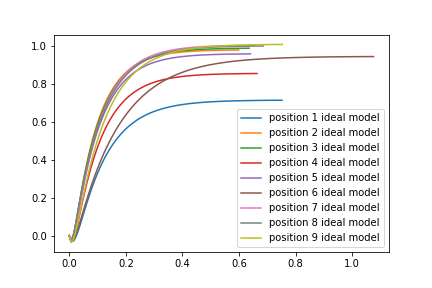
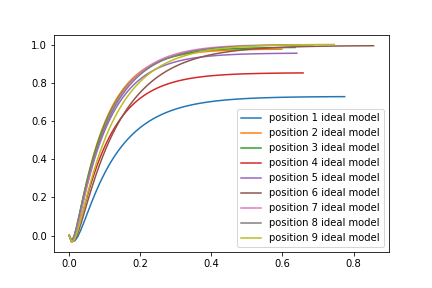
removing negative trend

diff --git a/identification.py b/identification.py
@@ -31,6 +31,23 @@ def read_data(control_output,task_vel):
 
 #the function reads the step response data from the files and outputs a dataframe
 def batch_read_data(control_output,task_vel):
+
+    #the function removes the negative trend
+    def trend_remove(df_i_s):
+        df_i_s['trend'] = np.sign(df_i_s['x_ist'].rolling(window=5).mean().diff().fillna(0)).map({0:'FLAT',1:'UP',-1:'DOWN'})
+        rev = list(df_i_s.trend.values)[::-1]
+        counter = 0
+
+        for i in range(0,len(rev)):
+            if rev[i] == 'DOWN':
+                counter = counter+1
+            else:
+                break
+        leng = len(df_i_s)
+        if counter > 5: #if the trend is noticable, then the dataframe is updated.
+            df_i_s = df_i_s.head(leng-counter)
+        return df_i_s
+
     try:
         df_soll     = pd.read_csv(control_output, header = 0)
         df_soll.columns = df_soll.columns.str.strip() #removing whitespace from header name
@@ -43,13 +60,14 @@ def batch_read_data(control_output,task_vel):
         #df_ist      = df_ist[~df_ist.index.duplicated(keep = 'first')]
         df_ist_soll = pd.concat([df_soll.x_soll, df_ist.x_ist], axis = 1).fillna(method = 'pad')
         df_ist_soll = df_ist_soll.fillna(0)
+        df_ist_soll = trend_remove(df_ist_soll)
+        df_ist_soll.drop('trend', axis = 1, inplace = True) #removing the column trend from the dataframe
         return df_ist_soll
     except:
         pass
 
 
-
-
+    
     
 #function that strips zeros and multiplies the dataframe to 1
 def strip_multiply(dataframe):
